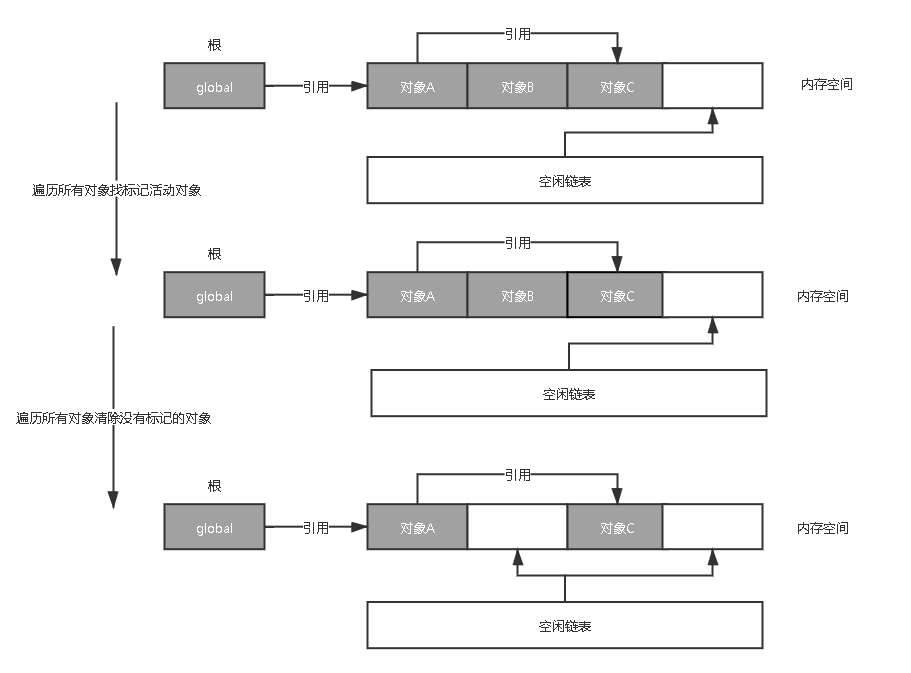
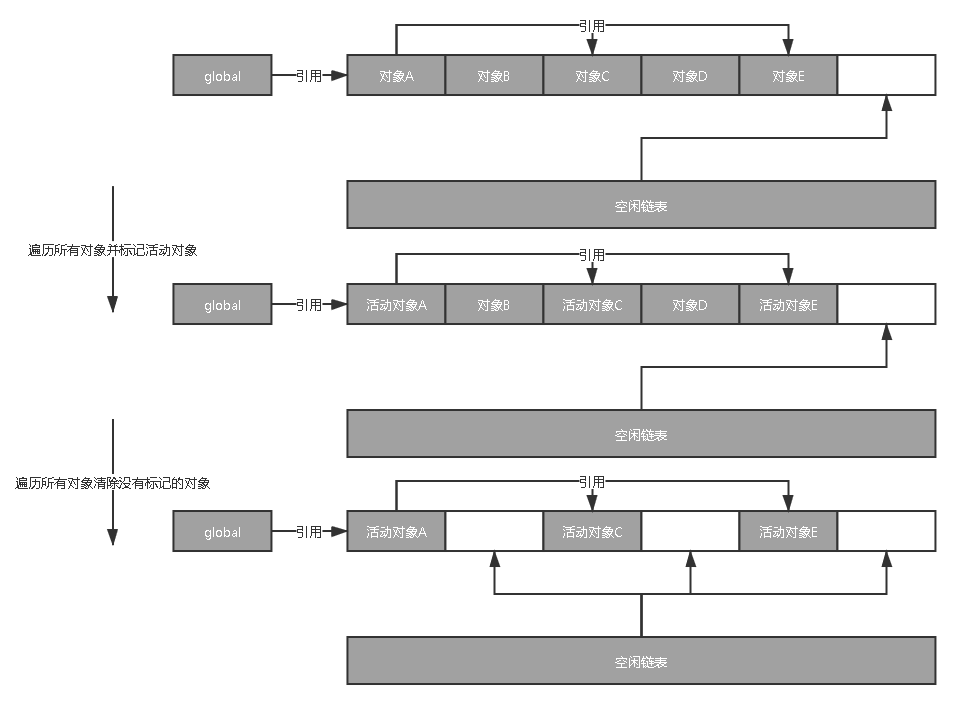
part1-module2作业

diff --git a/fed-e-task-01-02/notes/optimization/memory-management/README.md b/fed-e-task-01-02/notes/optimization/memory-management/README.md
@@ -185,7 +185,7 @@ window.onload = function () {
 **实现原理**
 
 - 核心思想：分标记和清除二个阶段完成
-- 遍历所有对象找标记活动对象
+- 遍历所有对象并标记活动对象
 - 遍历所有对象清除没有标记的对象
 - 回收相应的空间
 
